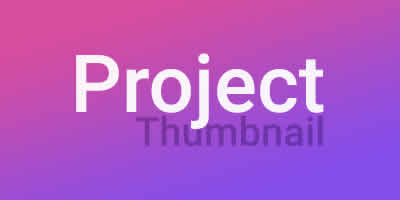
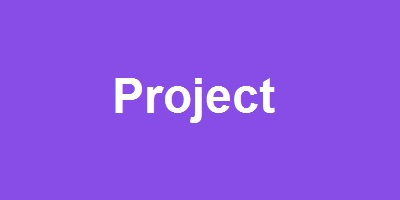
Change

diff --git a/index.html b/index.html
@@ -373,7 +373,7 @@
 					<div class="showcase__thumbnails-wrapper">
 
 						<!-- normal -->
-						<img data-project="p1" class="showcase__thumb  showcase__thumb--first  showcase__thumb--active" src="content/project01_thumb.jpg">
+						<img data-project="p1" class="showcase__thumb  showcase__thumb--first  showcase__thumb--active" src="content/project_placeholder_thumb.jpg">
 						<img data-project="p2" class="showcase__thumb" src="content/project_placeholder_thumb.jpg">
 						<img data-project="p3" class="showcase__thumb" src="content/project_placeholder_thumb.jpg">
 						<img data-project="p4" class="showcase__thumb" src="content/project_placeholder_thumb.jpg">
